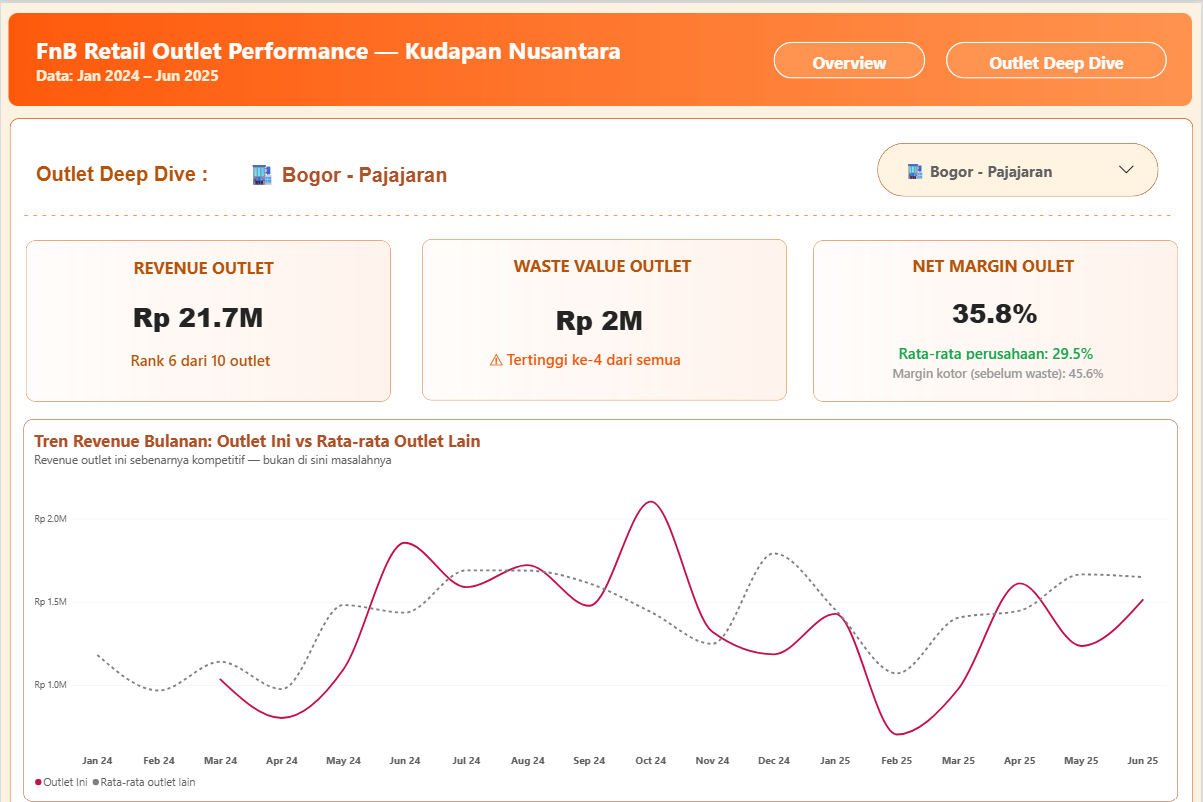
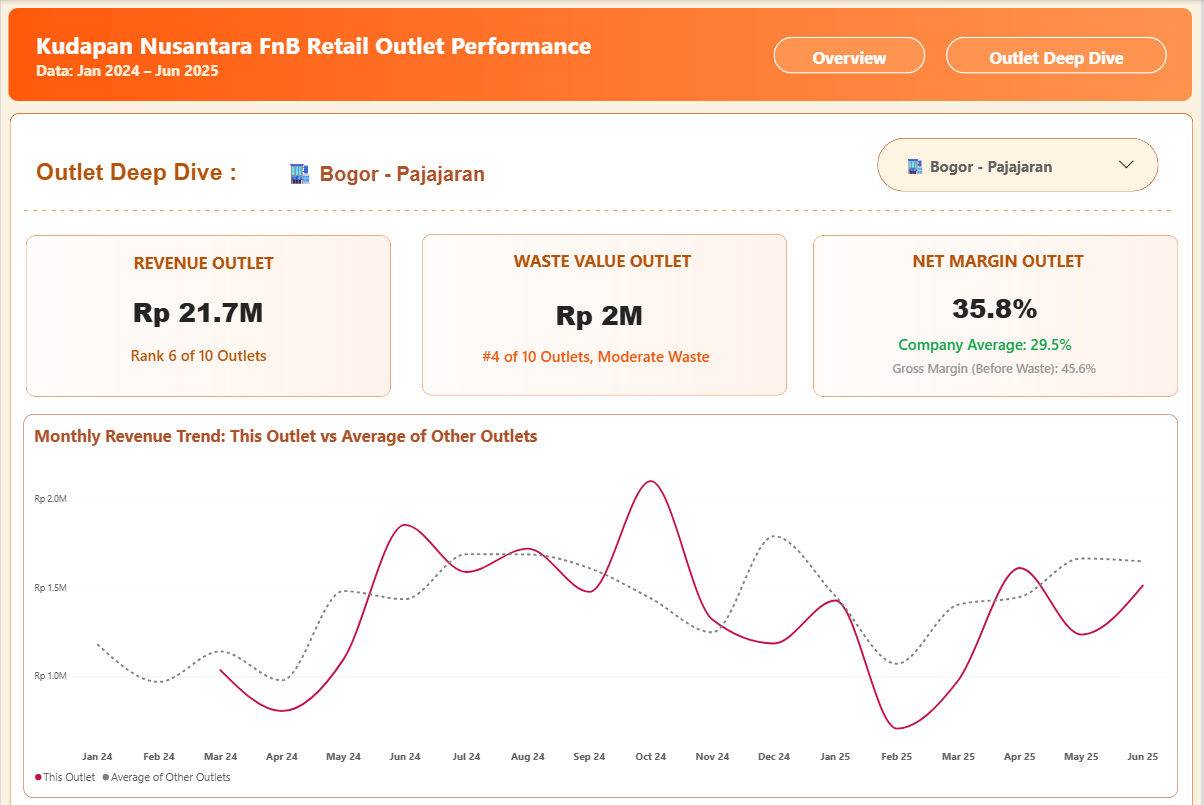
Update FnB dashboard screenshots to English version and add summary table image
Claude-Session: https://claude.ai/code/session_01CsVrqfsAbWrWoYGEZaeovJ

diff --git a/PBI-FnB-Retail-Outlet-Performance/README.md b/PBI-FnB-Retail-Outlet-Performance/README.md
@@ -7,14 +7,13 @@ The company's Operations Lead only had a monthly revenue report per outlet, sent
 
 ## Screenshots
 **Overview (all outlets)**
-![Overview, top half](images/Overview%20P.a.png)
-![Overview, bottom half](images/Overview%20P.b.png)
+![Overview, top: KPI cards and revenue vs. net margin per outlet](images/Overview%20P.a.png)
+![Overview, middle: waste share, recommendations, and seasonal pattern](images/Overview%20P.b.png)
+![Overview, bottom: all-outlets summary table](images/Overview%20P.c.png)
 
 **Outlet Deep Dive**
 ![Outlet Deep Dive, top half](images/Outlet%20Deep%20Dive%20P.a.png)
 ![Outlet Deep Dive, bottom half](images/Outlet%20Deep%20Dive%20P.b.png)
-
-*Dashboard labels and waste reasons (e.g. "Meleleh" = melted, "Kadaluarsa" = expired, "Kemasan Rusak" = damaged packaging) are in Indonesian, matching the business context.*
 
 ## Approach
 - Star schema: `fact_sales` and `fact_waste`, with `dim_outlet`, `dim_product`, and `dim_calendar` as dimensions
